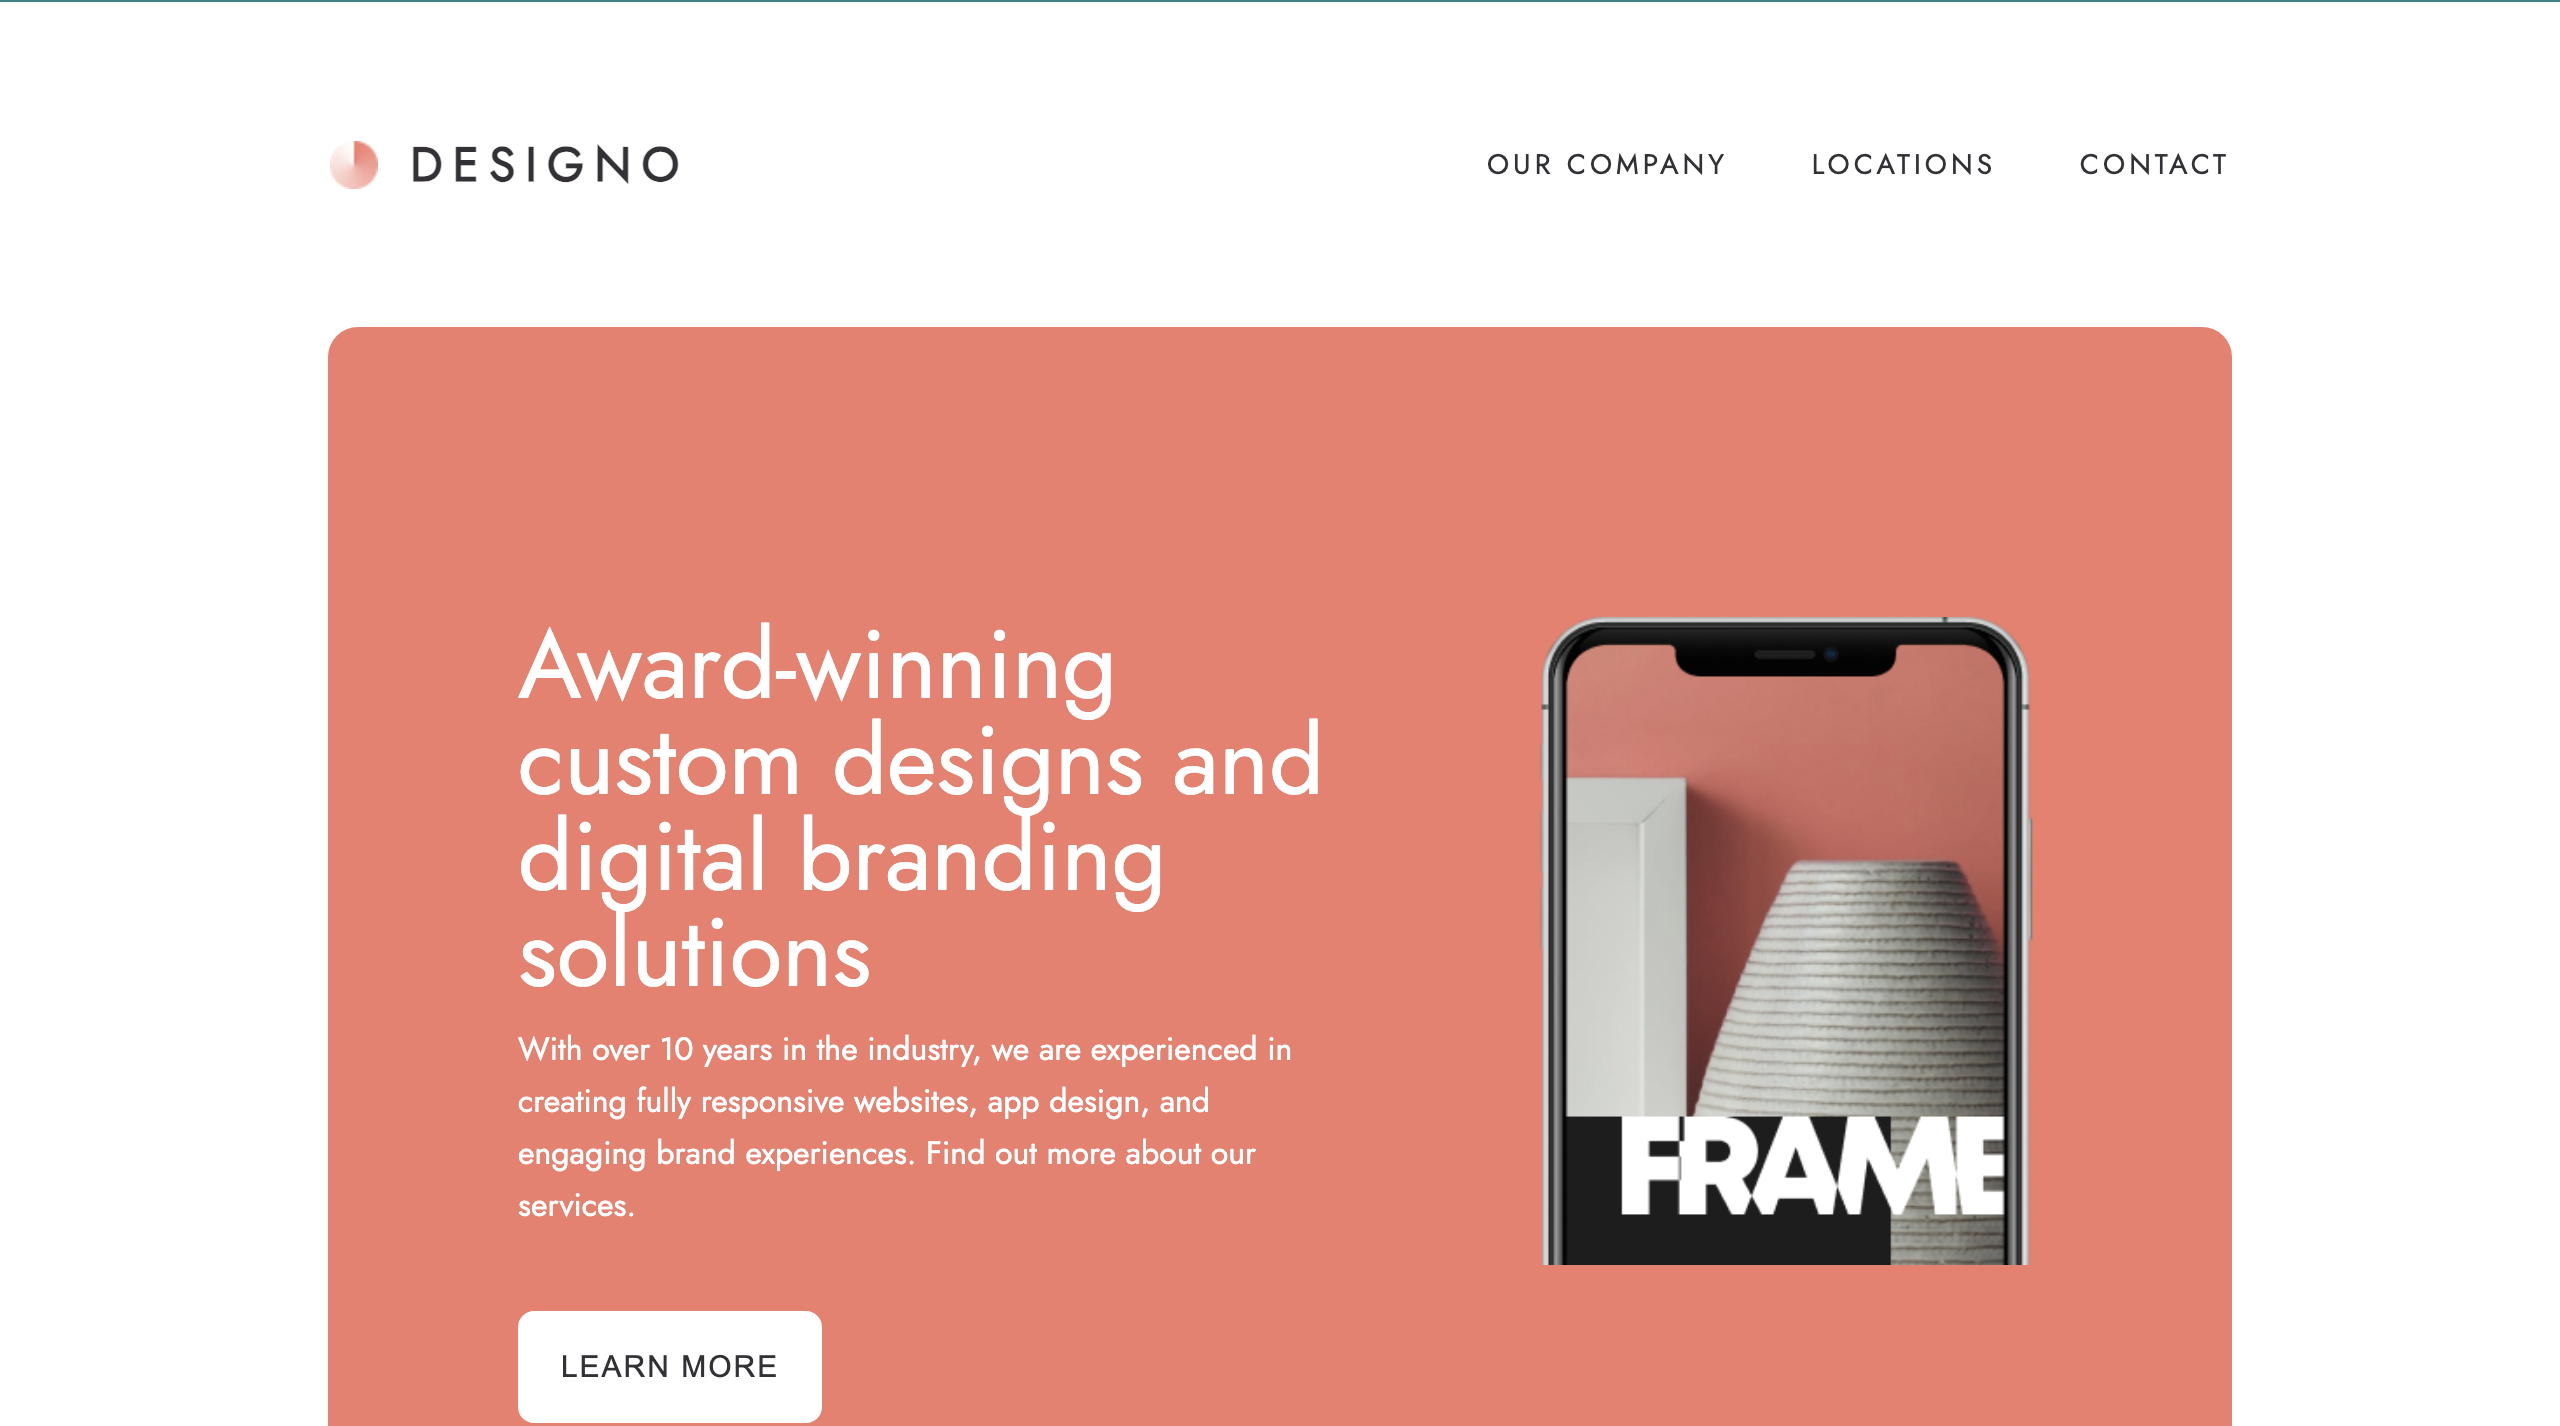
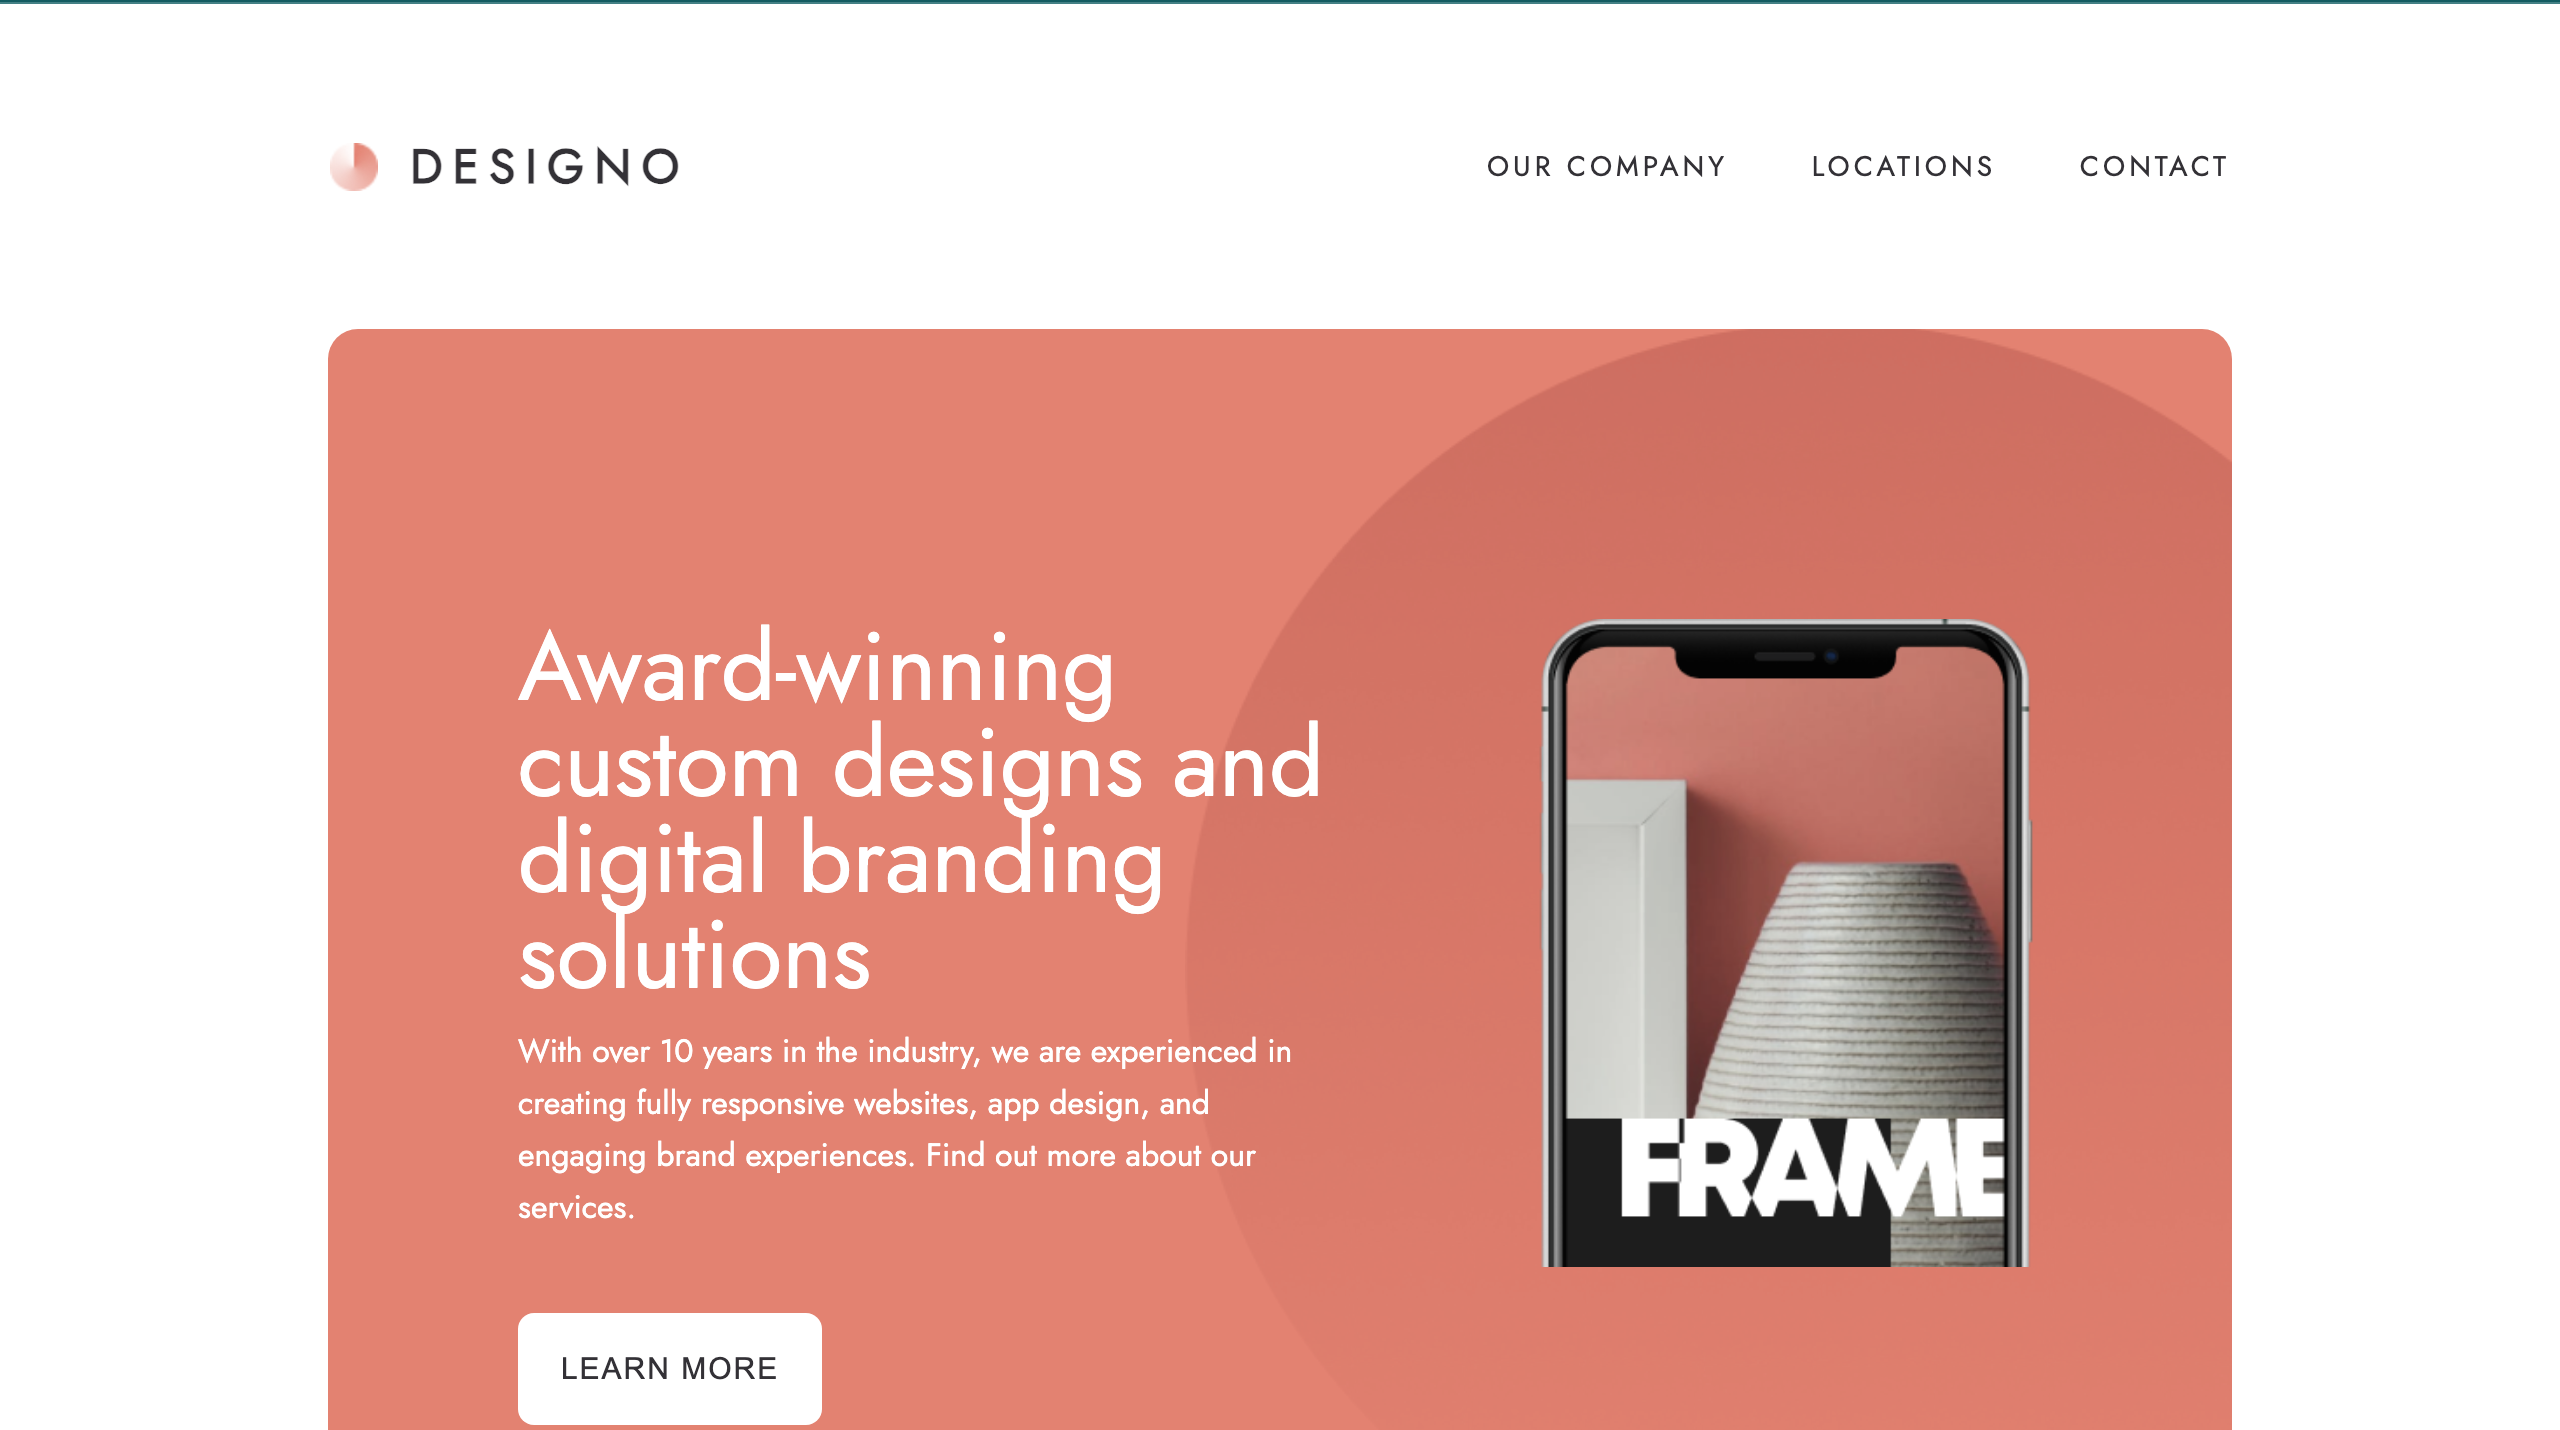
fully implemented mobile navigation

diff --git a/src/components/Navigation/navigation-bar/Navbar.jsx b/src/components/Navigation/navigation-bar/Navbar.jsx
@@ -1,10 +1,18 @@
+import { useState } from 'react';
 import Logo from '../../../assets/logo/logo.png'
+import { OpenHamburger, ClosedHamburger } from '../../../assets/icons/Icons';
 import { NavLink } from 'react-router-dom';
 import { navLinks } from '../../../assets/data/data'
 
 import styles from './Navbar.module.css'
 
 const Navbar = () => {
+    const [isMenuOpen, setIsMenuOpen] = useState(false);
+
+    const toggleMenu = () => {
+        setIsMenuOpen(!isMenuOpen);
+    };
+
     return (
         <nav className={styles.navbar}>
             <div className={styles.brand}>
@@ -13,11 +21,35 @@ const Navbar = () => {
                     <NavLink to="/" className={styles.navlink}>designo</NavLink>
                 </div>
             </div>
-            <div className={styles.hamburger}></div>
+            <div className={styles.mobileNavLinksWrapper}>
+                <div className={styles.hamburgerIcon} onClick={toggleMenu}>
+                    {isMenuOpen ? <ClosedHamburger /> : <OpenHamburger />}
+                </div>
+                {isMenuOpen && (
+                    <div className={styles.mobileMenu}>
+                        {navLinks.map((navlink, index) => (
+                            <div key={index} className={styles.mobileNavLink}>
+                                <NavLink
+                                    to={navlink === 'our company' ? '/about-us' : `/${navlink}`}
+                                    className={styles.mobilelink}
+                                    onClick={toggleMenu}
+                                >
+                                    {navlink}
+                                </NavLink>
+                            </div>
+                        ))}
+                    </div>
+                )}
+            </div>
             <div className={styles.navLinksWrapper}>
                 {navLinks.map((navlink, index) => (
                     <div key={index} className={styles.navbarLink}>
-                        <NavLink to={navlink === 'our company' ? '/about-us' : `/${navlink}`} className={styles.navlink}>{navlink}</NavLink>
+                        <NavLink
+                            to={navlink === 'our company' ? '/about-us' : `/${navlink}`}
+                            className={styles.navlink}
+                        >
+                            {navlink}
+                        </NavLink>
                     </div>
                 ))}
             </div>

diff --git a/src/assets/icons/Icons.jsx b/src/assets/icons/Icons.jsx
@@ -8,6 +8,22 @@ export const NavIcon = () => {
     );
 }
 
+export const OpenHamburger = () => {
+    return (
+        <svg xmlns="http://www.w3.org/2000/svg" width="24" height="20" >
+            <g fill="#1D1C1E" fillRule="evenodd"><path d="M0 0h24v4H0zM0 8h24v4H0zM0 16h24v4H0z" /></g>
+        </svg>
+    );
+}
+
+export const ClosedHamburger = () => {
+    return (
+        <svg xmlns="http://www.w3.org/2000/svg" width="20" height="20">
+            <path d="M17.071.1L19.9 2.93l-7.071 7.07 7.071 7.072-2.828 2.828L10 12.828l-7.071 7.071L.1 17.071 7.17 10 .102 2.929 2.929.1l7.07 7.07 7.072-7.07z" fill="#1D1C1E" fillRule="evenodd" />
+        </svg>
+    );
+}
+
 export const TwitterIcon = () => {
     return (
         <svg xmlns="http://www.w3.org/2000/svg"><path d="M24 2.557a9.83 9.83 0 01-2.828.775A4.932 4.932 0 0023.337.608a9.864 9.864 0 01-3.127 1.195A4.916 4.916 0 0016.616.248c-3.179 0-5.515 2.966-4.797 6.045A13.978 13.978 0 011.671 1.149a4.93 4.93 0 001.523 6.574 4.903 4.903 0 01-2.229-.616c-.054 2.281 1.581 4.415 3.949 4.89a4.935 4.935 0 01-2.224.084 4.928 4.928 0 004.6 3.419A9.9 9.9 0 010 17.54a13.94 13.94 0 007.548 2.212c9.142 0 14.307-7.721 13.995-14.646A10.025 10.025 0 0024 2.557z" fill="#E7816B" fillRule="nonzero" /></svg>

diff --git a/src/components/Cards/location-card/LocationCard.jsx b/src/components/Cards/location-card/LocationCard.jsx
@@ -2,7 +2,7 @@ import { APIProvider, Map } from '@vis.gl/react-google-maps';
 import styles from './LocationCard.module.css'
 
 const LocationCard = ({ location, reversed }) => {
-    const { country, address, contact } = location;
+    const { country, address, contact, coordinates } = location;
     const addressParagraphs = address.split('\n');
     const contactParagraphs = contact.split('\n');
 
@@ -15,10 +15,10 @@ const LocationCard = ({ location, reversed }) => {
             <div className={styles.map}>
                 <APIProvider apiKey={apiKey}>
                     <Map
-                        defaultCenter={{ lat: -33.860664, lng: 151.208138 }}
-                        defaultZoom={11}
-                        gestureHandling={'greedy'}
+                        defaultZoom={13}
                         disableDefaultUI={true}
+                        gestureHandling={'greedy'}
+                        defaultCenter={coordinates}
                     />
                 </APIProvider>
             </div>

diff --git a/src/components/Navigation/navigation-bar/Navbar.module.css b/src/components/Navigation/navigation-bar/Navbar.module.css
@@ -24,13 +24,42 @@
   font-weight: var(--large-font);
 }
 
-.navLinksWrapper {
-  display: none;
+.navlink {
+  color: var(--dark-grey);
 }
 
+.mobilelink,
 .navlink {
   text-decoration: none;
-  color: var(--dark-grey);
+}
+
+.mobileMenu {
+  left: 0;
+  right: 0;
+  gap: 2rem;
+  z-index: 2;
+  top: 6.3rem;
+  display: flex;
+  position: absolute;
+  padding: 3rem 1.5rem;
+  flex-direction: column;
+  background-color: var(--black);
+}
+
+.mobileNavLink {
+  font-size: 1.5rem;
+  line-height: 1.5625rem;
+  letter-spacing: 0.125rem;
+  text-transform: uppercase;
+  font-weight: var(--small-font);
+}
+
+.mobilelink {
+  color: var(--white);
+}
+
+.navLinksWrapper {
+  display: none;
 }
 
 @media screen and (min-width: 45rem) {
@@ -38,7 +67,7 @@
     padding: 4rem 2.5rem;
   }
 
-  .hamburger {
+  .mobileNavLinksWrapper {
     display: none;
   }
 

diff --git a/src/assets/data/data.js b/src/assets/data/data.js
@@ -157,16 +157,19 @@ export const locationsArray = [
     address:
       "designo central office\n3886 Wellington Street\nToronto, Ontario M9C 3J5",
     contact: "contact\nP : +1 253-863-8967\nM : contact@designo.co",
+    coordinates: { lat: 43.7223346, lng: -79.22182529999999 },
   },
   {
     country: "australia",
     address: "designo au Office\n9 Balonne Street\nNew South Wales 2443",
     contact: "contact\nP : (02) 6720 9092\nM : contact@designo.au",
+    coordinates: { lat: -33.1144553, lng: 151.6365791 },
   },
   {
     country: "united kingdom",
     address: "designo uk Office\n13 Colorado Way\nRhyd-y-fro SA8 9GA",
     contact: "contact\nP : 078 3115 1400\nM : contact@designo.uk",
+    coordinates: { lat: 53.73217709999999, lng: -1.3226202 },
   },
 ];
 

diff --git a/src/components/Cards/location-card/LocationCard.module.css b/src/components/Cards/location-card/LocationCard.module.css
@@ -15,7 +15,10 @@
   flex-direction: column;
   justify-content: center;
   color: var(--dark-grey);
+  background-image: url("/assets/locationCards/mobileBackground.png");
   background-color: var(--cream);
+  background-size: cover;
+  background-repeat: no-repeat;
 }
 
 .country {
@@ -60,8 +63,14 @@
 
   .map,
   .textWrapper {
+    overflow: hidden;
     height: 20.375rem;
     border-radius: 0.9375rem;
+  }
+
+  .textWrapper {
+    background-image: url("/assets/locationCards/tabletBackground.png");
+    background-size: contain;
   }
 
   .textWrapper {

diff --git a/src/components/Headers/home-page/HomePageHeader.module.css b/src/components/Headers/home-page/HomePageHeader.module.css
@@ -77,7 +77,7 @@
     height: 40rem;
     text-align: left;
     flex-direction: row;
-    background-size: 55%;
+    background-size: 54%;
     align-items: flex-start;
     background-image: url("/assets/headers/home/desktopBackground.png");
   }
@@ -95,7 +95,14 @@
   }
 
   .homepageHeader .imageContainer {
-    margin-top: 9.06rem;
+    /* height: 100%; */
+    margin-top: 8.69rem;
     margin-right: 6.18rem;
+    /* background-color: yellow; */
+  }
+
+  .homepageHeader .imageContainer img {
+    width: 100%;
+    height: 100%;
   }
 }

diff --git a/src/components/Layout/AppLayout.jsx b/src/components/Layout/AppLayout.jsx
@@ -1,8 +1,10 @@
 import { Outlet } from 'react-router-dom'
 import Navbar from '../Navigation/navigation-bar/Navbar'
 import Footer from '../Navigation/footer-bar/Footer'
+import useScrollToTop from '../../customHooks/useScrollToTop'
 
 const AppLayout = () => {
+    useScrollToTop();
     return (
         <>
             <header><Navbar /></header>

diff --git a/src/customHooks/useScrollToTop.js b/src/customHooks/useScrollToTop.js
@@ -1,0 +1,12 @@
+import { useEffect } from "react";
+import { useLocation } from "react-router-dom";
+
+const useScrollToTop = () => {
+  const { pathname } = useLocation();
+
+  useEffect(() => {
+    window.scrollTo({ top: 0, behavior: "smooth" });
+  }, [pathname]);
+};
+
+export default useScrollToTop;

diff --git a/README.md b/README.md
@@ -49,37 +49,6 @@ Users should be able to:
 - Mobile-first workflow
 - [React](https://reactjs.org/) - JS library
 
-### What I learned
-
-Use this section to recap over some of your major learnings while working through this project. Writing these out and providing code samples of areas you want to highlight is a great way to reinforce your own knowledge.
-
-To see how you can add code snippets, see below:
-
-```html
-<h1>Some HTML code I'm proud of</h1>
-```
-
-```css
-.proud-of-this-css {
-  color: papayawhip;
-}
-```
-
-```js
-const proudOfThisFunc = () => {
-  console.log("🎉");
-};
-```
-
-### Continued development
-
-Use this section to outline areas that you want to continue focusing on in future projects. These could be concepts you're still not completely comfortable with or techniques you found useful that you want to refine and perfect.
-
-### Useful resources
-
-- [Example resource 1](https://www.example.com) - This helped me for XYZ reason. I really liked this pattern and will use it going forward.
-- [Example resource 2](https://www.example.com) - This is an amazing article which helped me finally understand XYZ. I'd recommend it to anyone still learning this concept.
-
 ## Author
 
 - Frontend Mentor - [@Smallz97](https://www.frontendmentor.io/profile/Smallz97)
